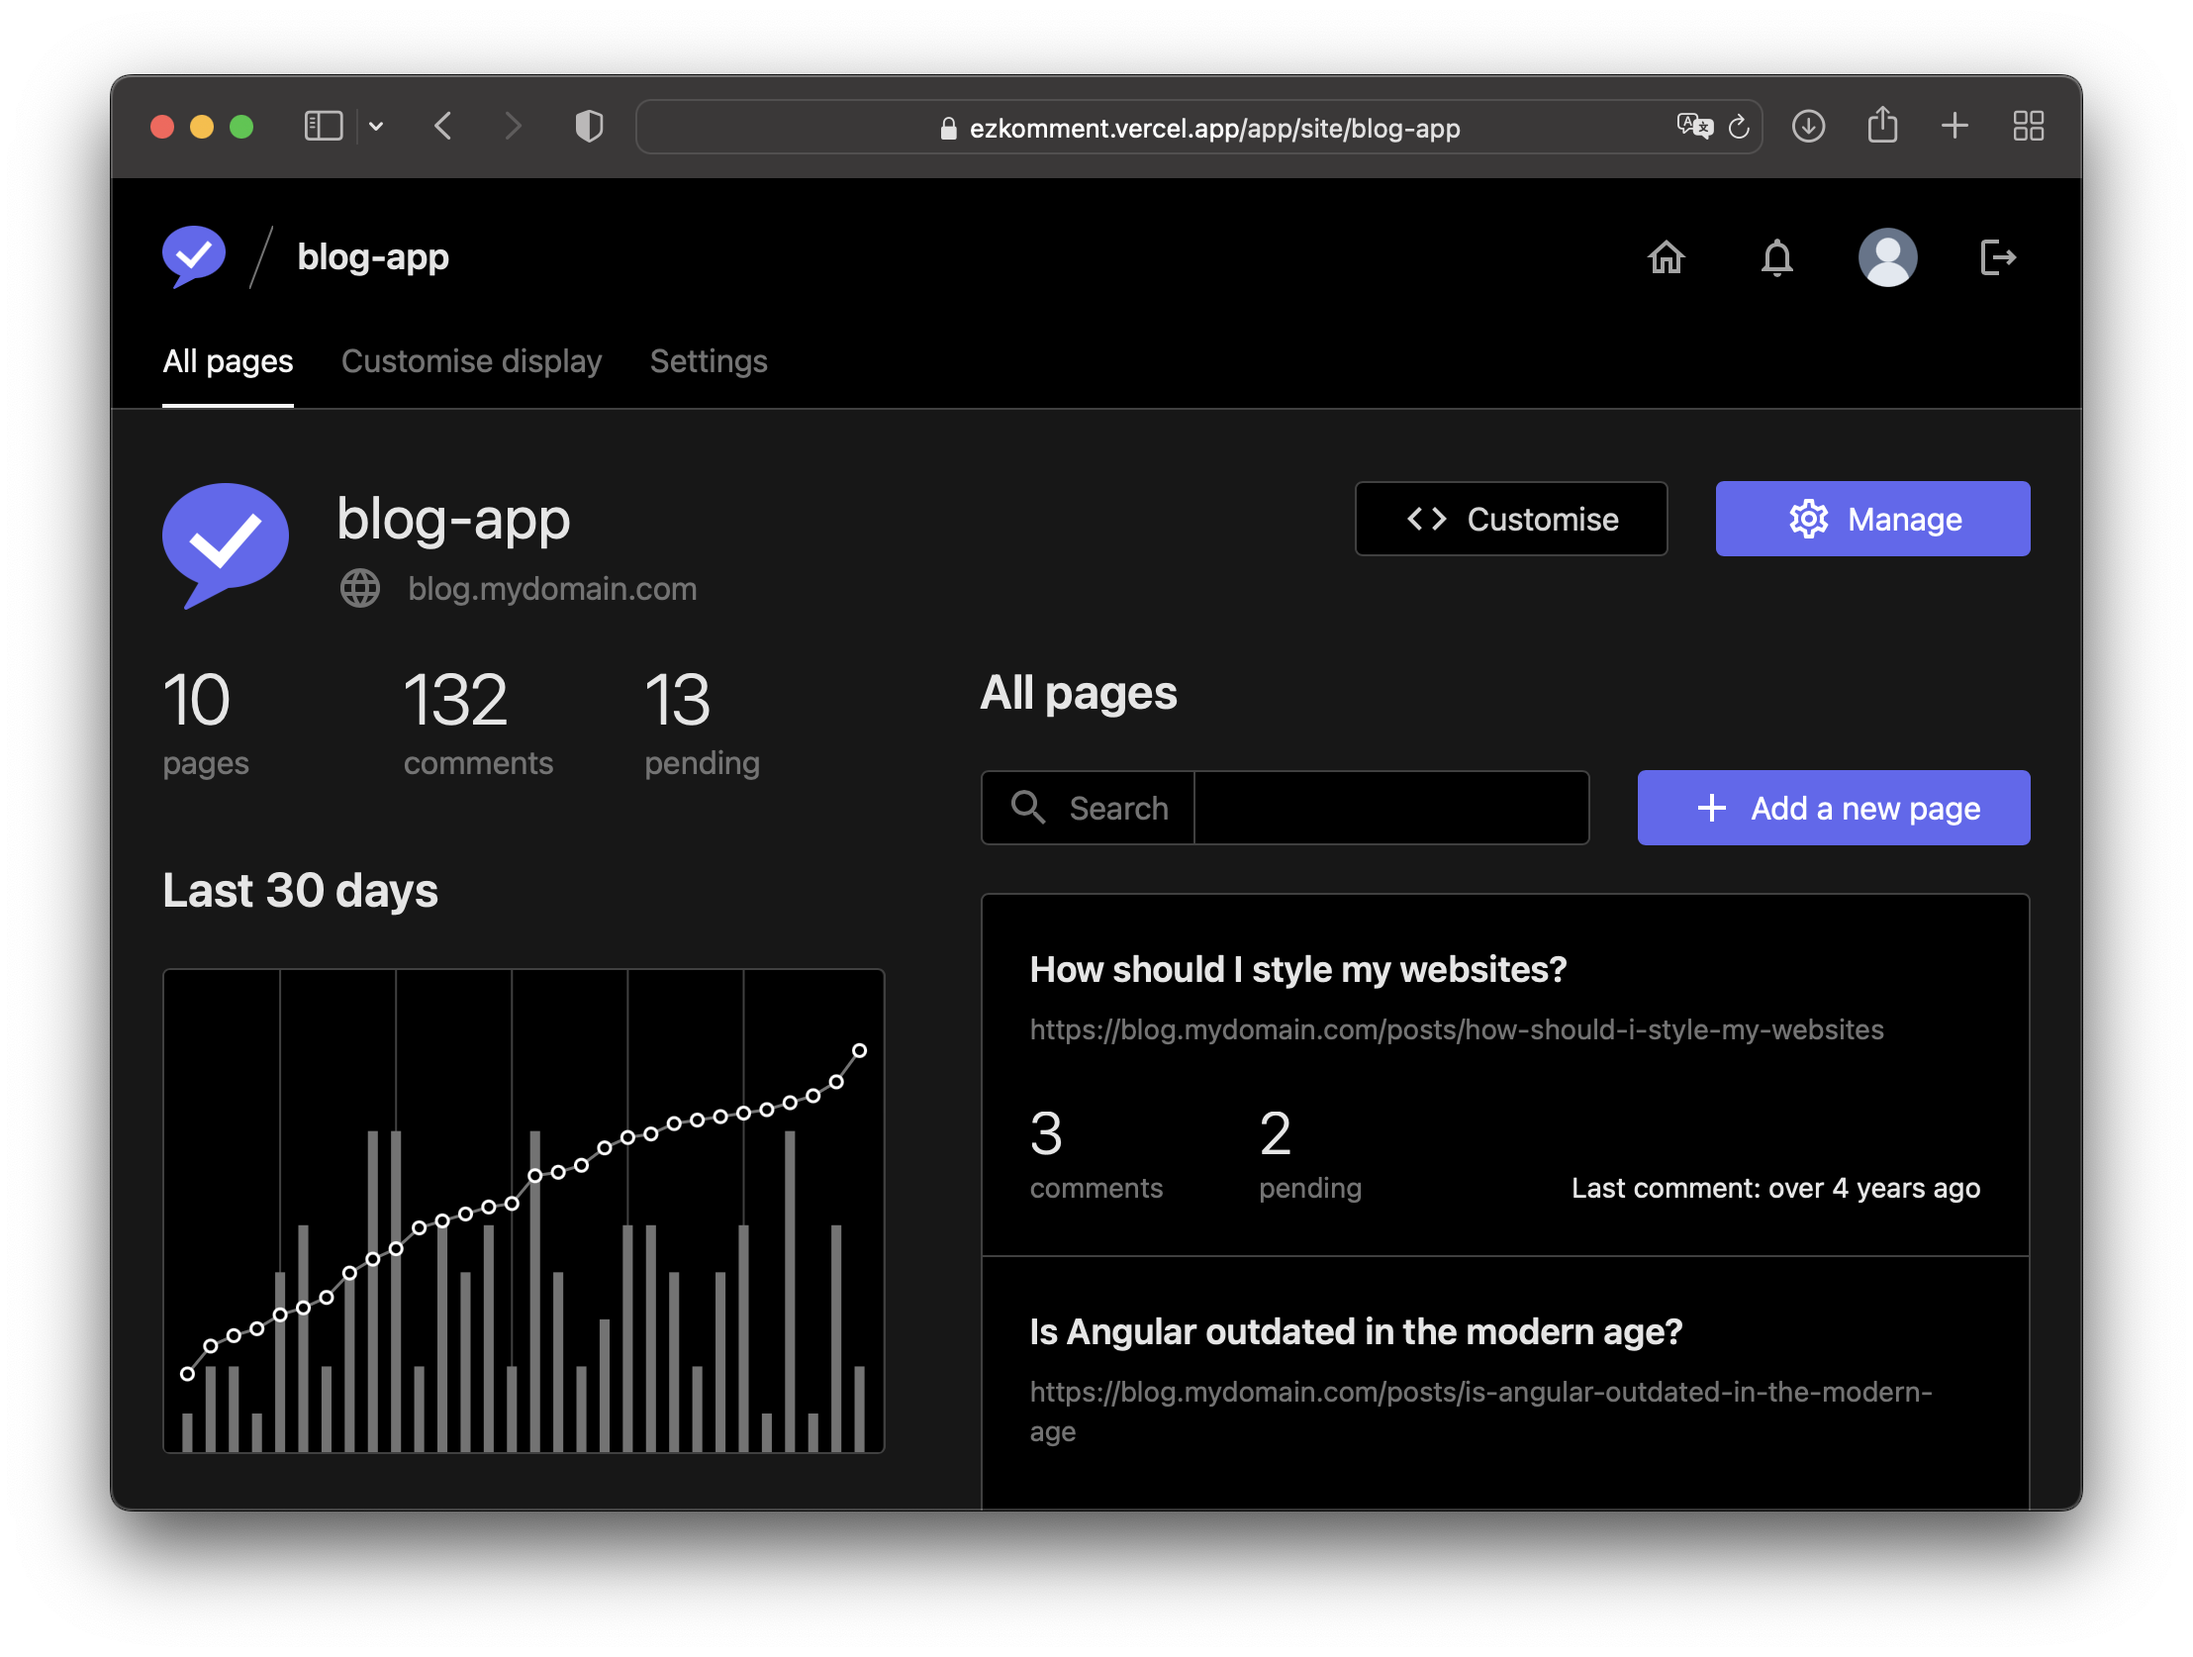
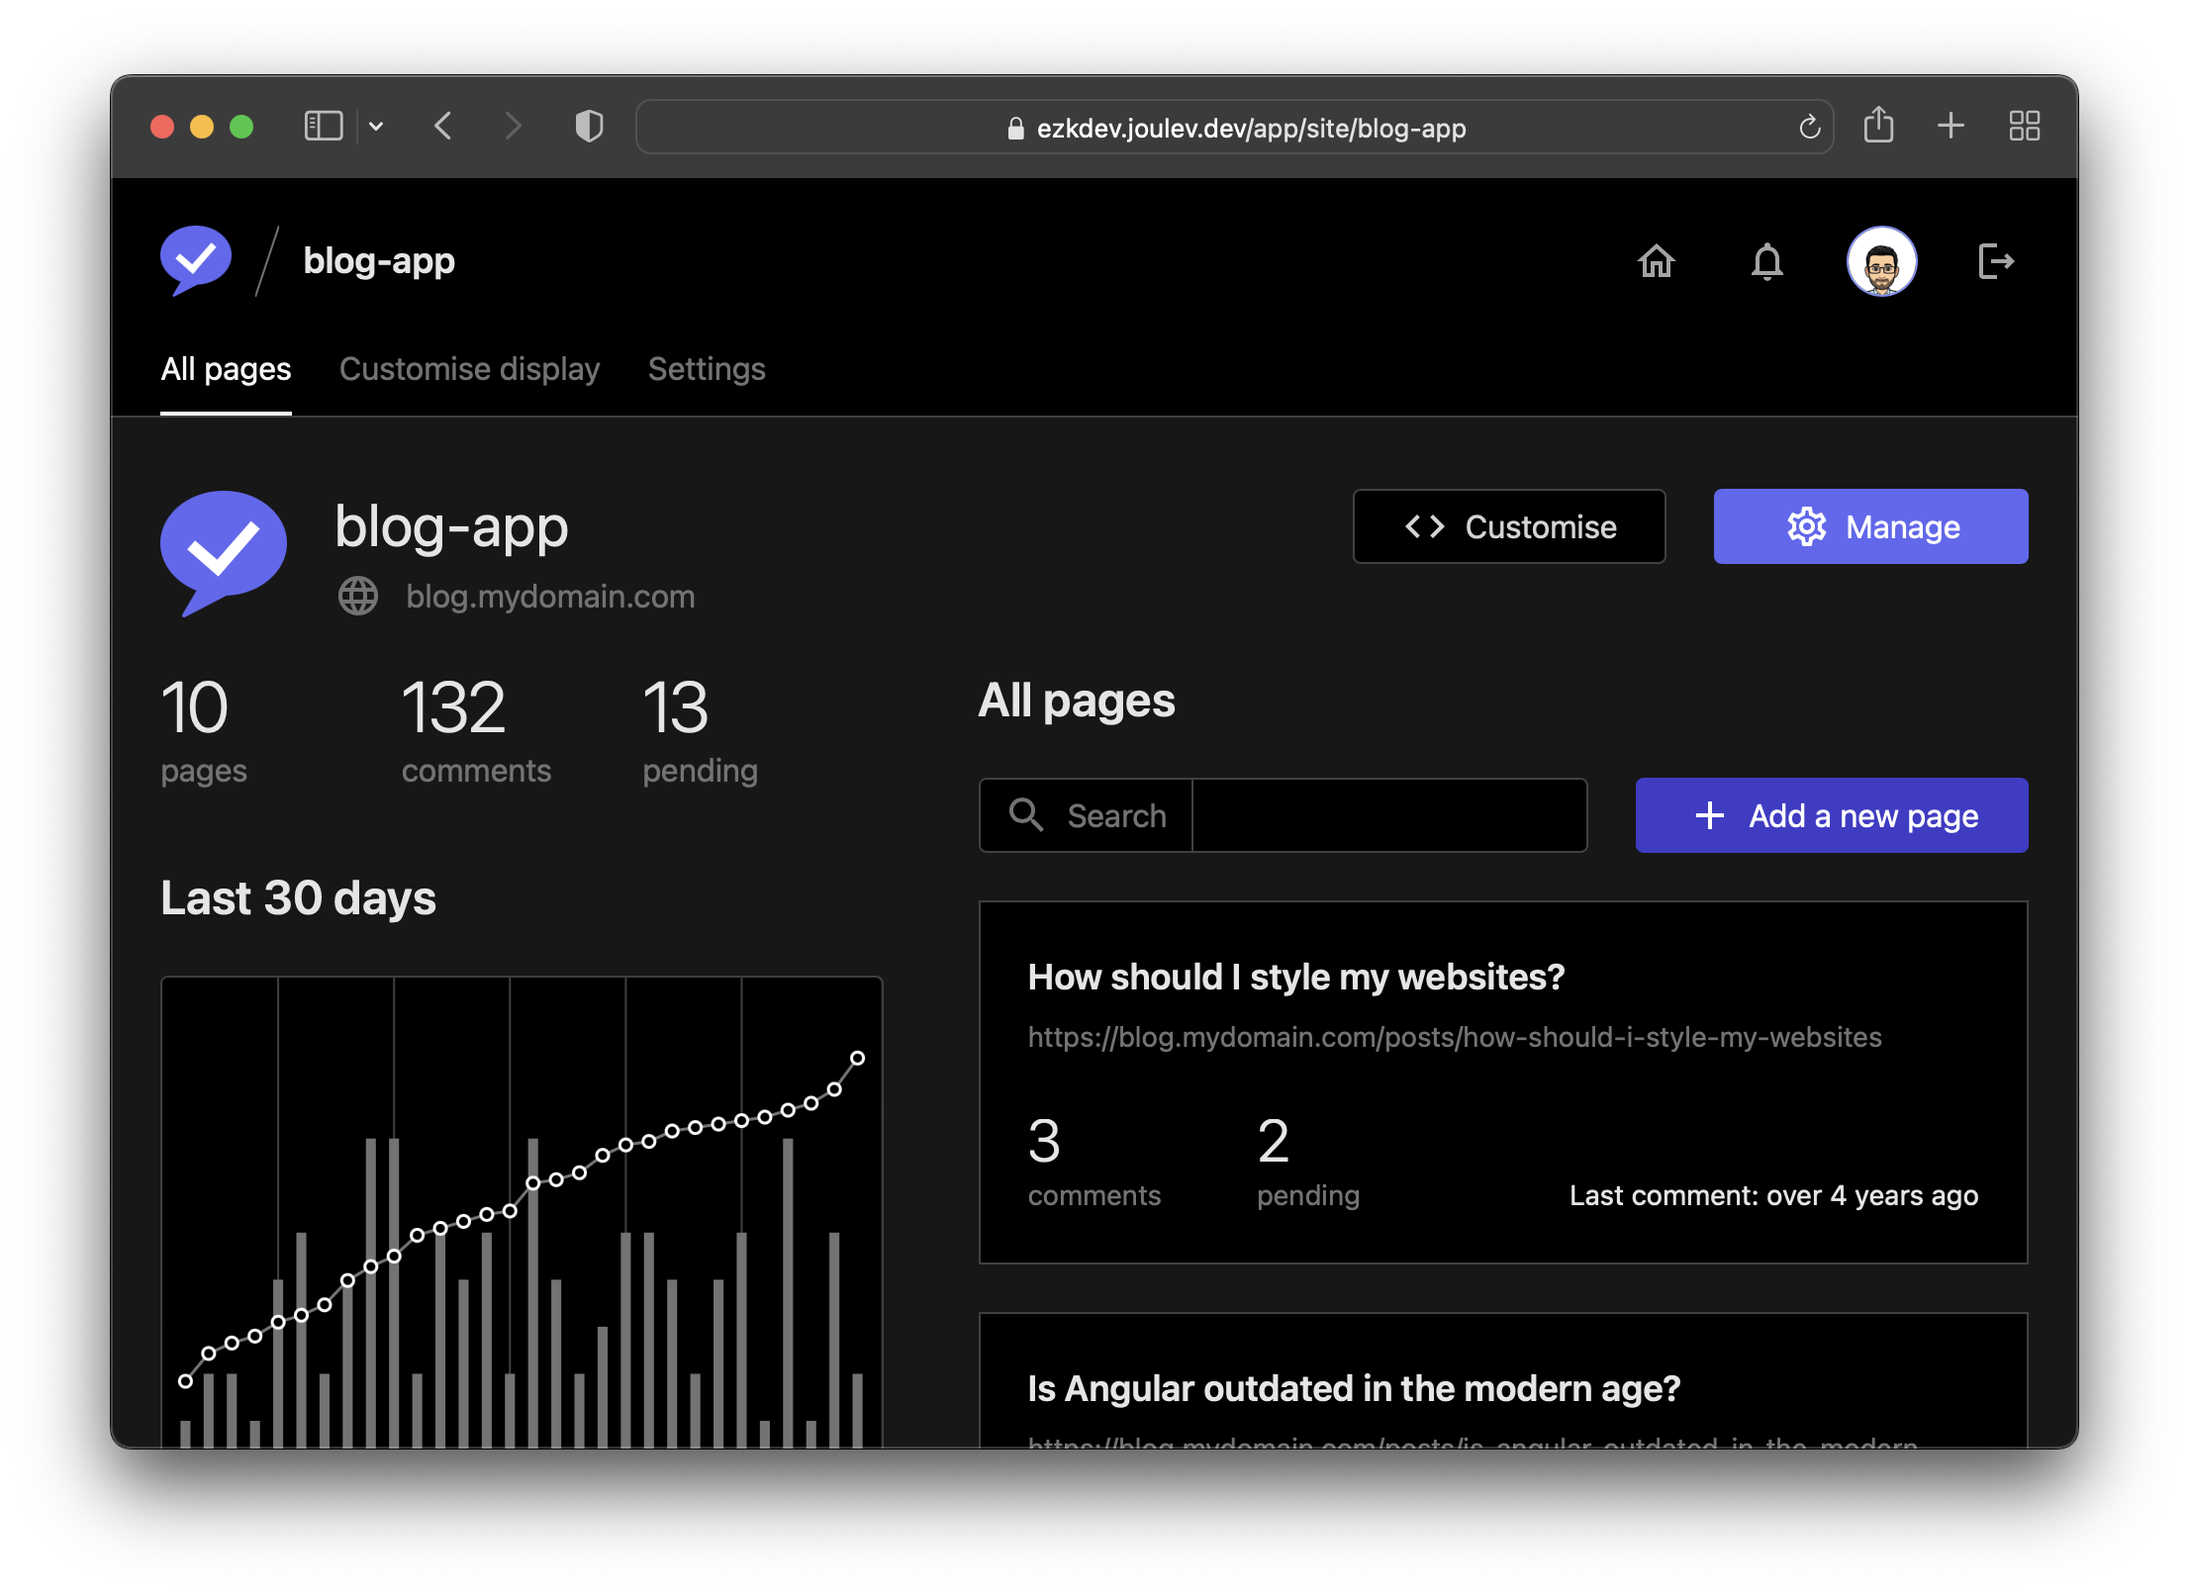
update app screenshots on landing page

diff --git a/packages/client/components/home/sections/banner.tsx b/packages/client/components/home/sections/banner.tsx
@@ -67,8 +67,8 @@ const HomeBanner: FC = () => {
           <Image
             src={theme === "dark" ? "/images/home/app-dark.png" : "/images/home/app-light.png"}
             alt="Screenshot"
-            width={2216}
-            height={1674}
+            width={2212}
+            height={1612}
             layout="responsive"
           />
         </div>
